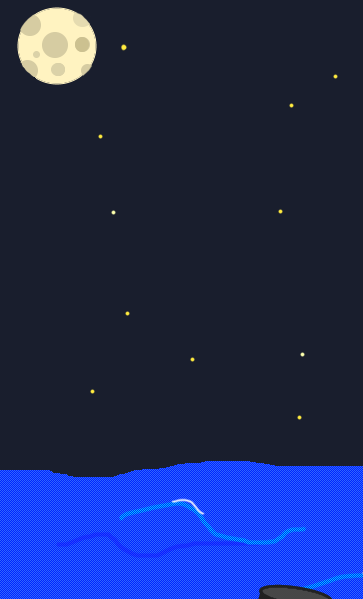
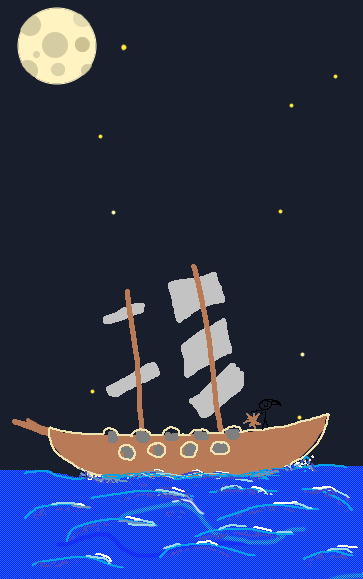
added design to play frame

diff --git a/SchiffeVersenken/src/mainpackage/Zeichenfeld.java b/SchiffeVersenken/src/mainpackage/Zeichenfeld.java
@@ -2,7 +2,12 @@ package mainpackage;
 
 import java.awt.Color;
 import java.awt.Graphics;
+import java.awt.Image;
+import java.awt.image.BufferedImage;
+import java.io.File;
+import java.io.IOException;
 
+import javax.imageio.ImageIO;
 import javax.swing.ImageIcon;
 import javax.swing.JButton;
 import javax.swing.JLabel;
@@ -17,6 +22,7 @@ public class Zeichenfeld extends JPanel {
 	private int startDelta = 30;
 	private boolean buttonsCreated = false;
 	private boolean animationIsRunning = false;
+	private static BufferedImage backgroundImage;
 	
 	private JPanel buttonPanel;
 
@@ -25,6 +31,11 @@ public class Zeichenfeld extends JPanel {
 		this.model = model;
 		this.game = game;
 		this.setLayout(null);
+		try {
+			backgroundImage = ImageIO.read(new File("media/images/schiffMenuHintergrundErweitert.png"));
+		} catch (IOException e) {
+			e.printStackTrace();
+		}
 	}
 
 	@Override
@@ -34,6 +45,8 @@ public class Zeichenfeld extends JPanel {
 		}
 
 		g.clearRect(0, 0, getWidth(), getHeight());
+		
+		g.drawImage(backgroundImage, 0, 0, null);
 
 		CellType[][] map = model.getViewMap(0);
 		CellType[][] map2 = model.getViewMap(1);
@@ -49,12 +62,13 @@ public class Zeichenfeld extends JPanel {
 
 	private void createButtons() {
 		buttonPanel = new JPanel();
-		buttonPanel.setBounds(0, 0, 1500, 70);
+		buttonPanel.setBounds(100, 0, 340, 61);
+		buttonPanel.setBackground(new Color(25, 30, 40));
 
 		JButton verticalButton = new JButton("Vertikal");
 		JButton horizontalButton = new JButton("Horizontal");
 
-		verticalButton.setBounds(80, 20, 120, 40);
+		verticalButton.setBounds(0, 20, 120, 40);
 		verticalButton.setEnabled(false);
 		verticalButton.addActionListener(e -> {
 			verticalButton.setEnabled(false);
@@ -62,7 +76,7 @@ public class Zeichenfeld extends JPanel {
 			game.setVertical(true);
 		});
 
-		horizontalButton.setBounds(220, 20, 120, 40);
+		horizontalButton.setBounds(140, 20, 120, 40);
 		horizontalButton.setEnabled(true);
 		horizontalButton.addActionListener(e -> {
 			verticalButton.setEnabled(true);
@@ -82,7 +96,7 @@ public class Zeichenfeld extends JPanel {
 		buttonPanel.setVisible(false);
 		
 		JPanel animationPanel = new JPanel();
-		animationPanel.setBounds(0, 0, 1500, 700);
+		animationPanel.setBounds(0, 0, 1300, 700);
 		this.add(animationPanel);
 		
 		ImageIcon image = new ImageIcon();
@@ -100,10 +114,10 @@ public class Zeichenfeld extends JPanel {
 			break;
 		}
 		
-		JLabel backgroundImage = new JLabel(image);
-		backgroundImage.setBounds(0, 20, 1600, 650);
-		backgroundImage.setVisible(true);
-		animationPanel.add(backgroundImage);
+		JLabel animationLabel = new JLabel(image);
+		animationLabel.setBounds(0, 20, 1300, 650);
+		animationLabel.setVisible(true);
+		animationPanel.add(animationLabel);
 		
 		try {
 			Thread.sleep(animationTime);
@@ -112,7 +126,7 @@ public class Zeichenfeld extends JPanel {
 			Thread.currentThread().interrupt();
 		}
 		
-		animationPanel.remove(backgroundImage);
+		animationPanel.remove(animationLabel);
 		animationPanel.setVisible(false);
 		buttonPanel.setVisible(true);
 		animationIsRunning = false;

diff --git a/SchiffeVersenken/src/mainpackage/ViewGraphics.java b/SchiffeVersenken/src/mainpackage/ViewGraphics.java
@@ -1,6 +1,11 @@
 package mainpackage;
 
+import java.awt.Color;
+
+import javax.swing.ImageIcon;
 import javax.swing.JFrame;
+import javax.swing.JLabel;
+import javax.swing.JPanel;
 import javax.swing.SwingUtilities;
 
 public class ViewGraphics {
@@ -20,15 +25,27 @@ public class ViewGraphics {
 
 	private void createWindow() {
 		SwingUtilities.invokeLater(() -> {
-			frame.setSize(1500, 700);
+			frame.setSize(1300, 700);
 			zeichenfeld = new Zeichenfeld(model, game);
 			frame.setDefaultCloseOperation(javax.swing.WindowConstants.EXIT_ON_CLOSE);
 			frame.add(zeichenfeld);
+
+//			JPanel backgroundPanel = new JPanel();
+//			backgroundPanel.setBounds(0, 0, 1300, 700);
+//			backgroundPanel.setBackground(new Color(25, 30, 40));
+//			
+//			ImageIcon image = new ImageIcon("media/images/schiffMenuHintergrund.png");
+//			JLabel backgroundImage = new JLabel(image);
+//			backgroundImage.setBounds(0, 5, 1000, 750);
+//			backgroundPanel.add(backgroundImage);
+//			
+//			frame.add(backgroundPanel);
+
 			frame.setVisible(true);
 			frame.requestFocus();
 		});
 	}
-	
+
 	public void addController(Controller controller) {
 		SwingUtilities.invokeLater(() -> frame.addMouseListener(controller));
 	}
@@ -36,7 +53,7 @@ public class ViewGraphics {
 	public void refreshGraphics() {
 		SwingUtilities.invokeLater(() -> zeichenfeld.repaint());
 	}
-	
+
 	public void startAnimation(int animation) {
 		zeichenfeld.startAnimation(animation);
 	}

diff --git a/SchiffeVersenken/src/mainmenu/MainMenu.java b/SchiffeVersenken/src/mainmenu/MainMenu.java
@@ -24,8 +24,8 @@ public class MainMenu {
 		frame.setDefaultCloseOperation(javax.swing.WindowConstants.EXIT_ON_CLOSE);
 
 		JPanel mainPanel = new JPanel();
-		mainPanel.setBounds(10, 110, 350, 250);
-		mainPanel.setLayout(new GridLayout(5, 1, 0, 10));
+		mainPanel.setBounds(10, 110, 350, 200);
+		mainPanel.setLayout(new GridLayout(4, 1, 0, 10));
 		mainPanel.setBackground(new Color(25, 30, 40));
 		
 		JPanel backgroundPanel = new JPanel();
